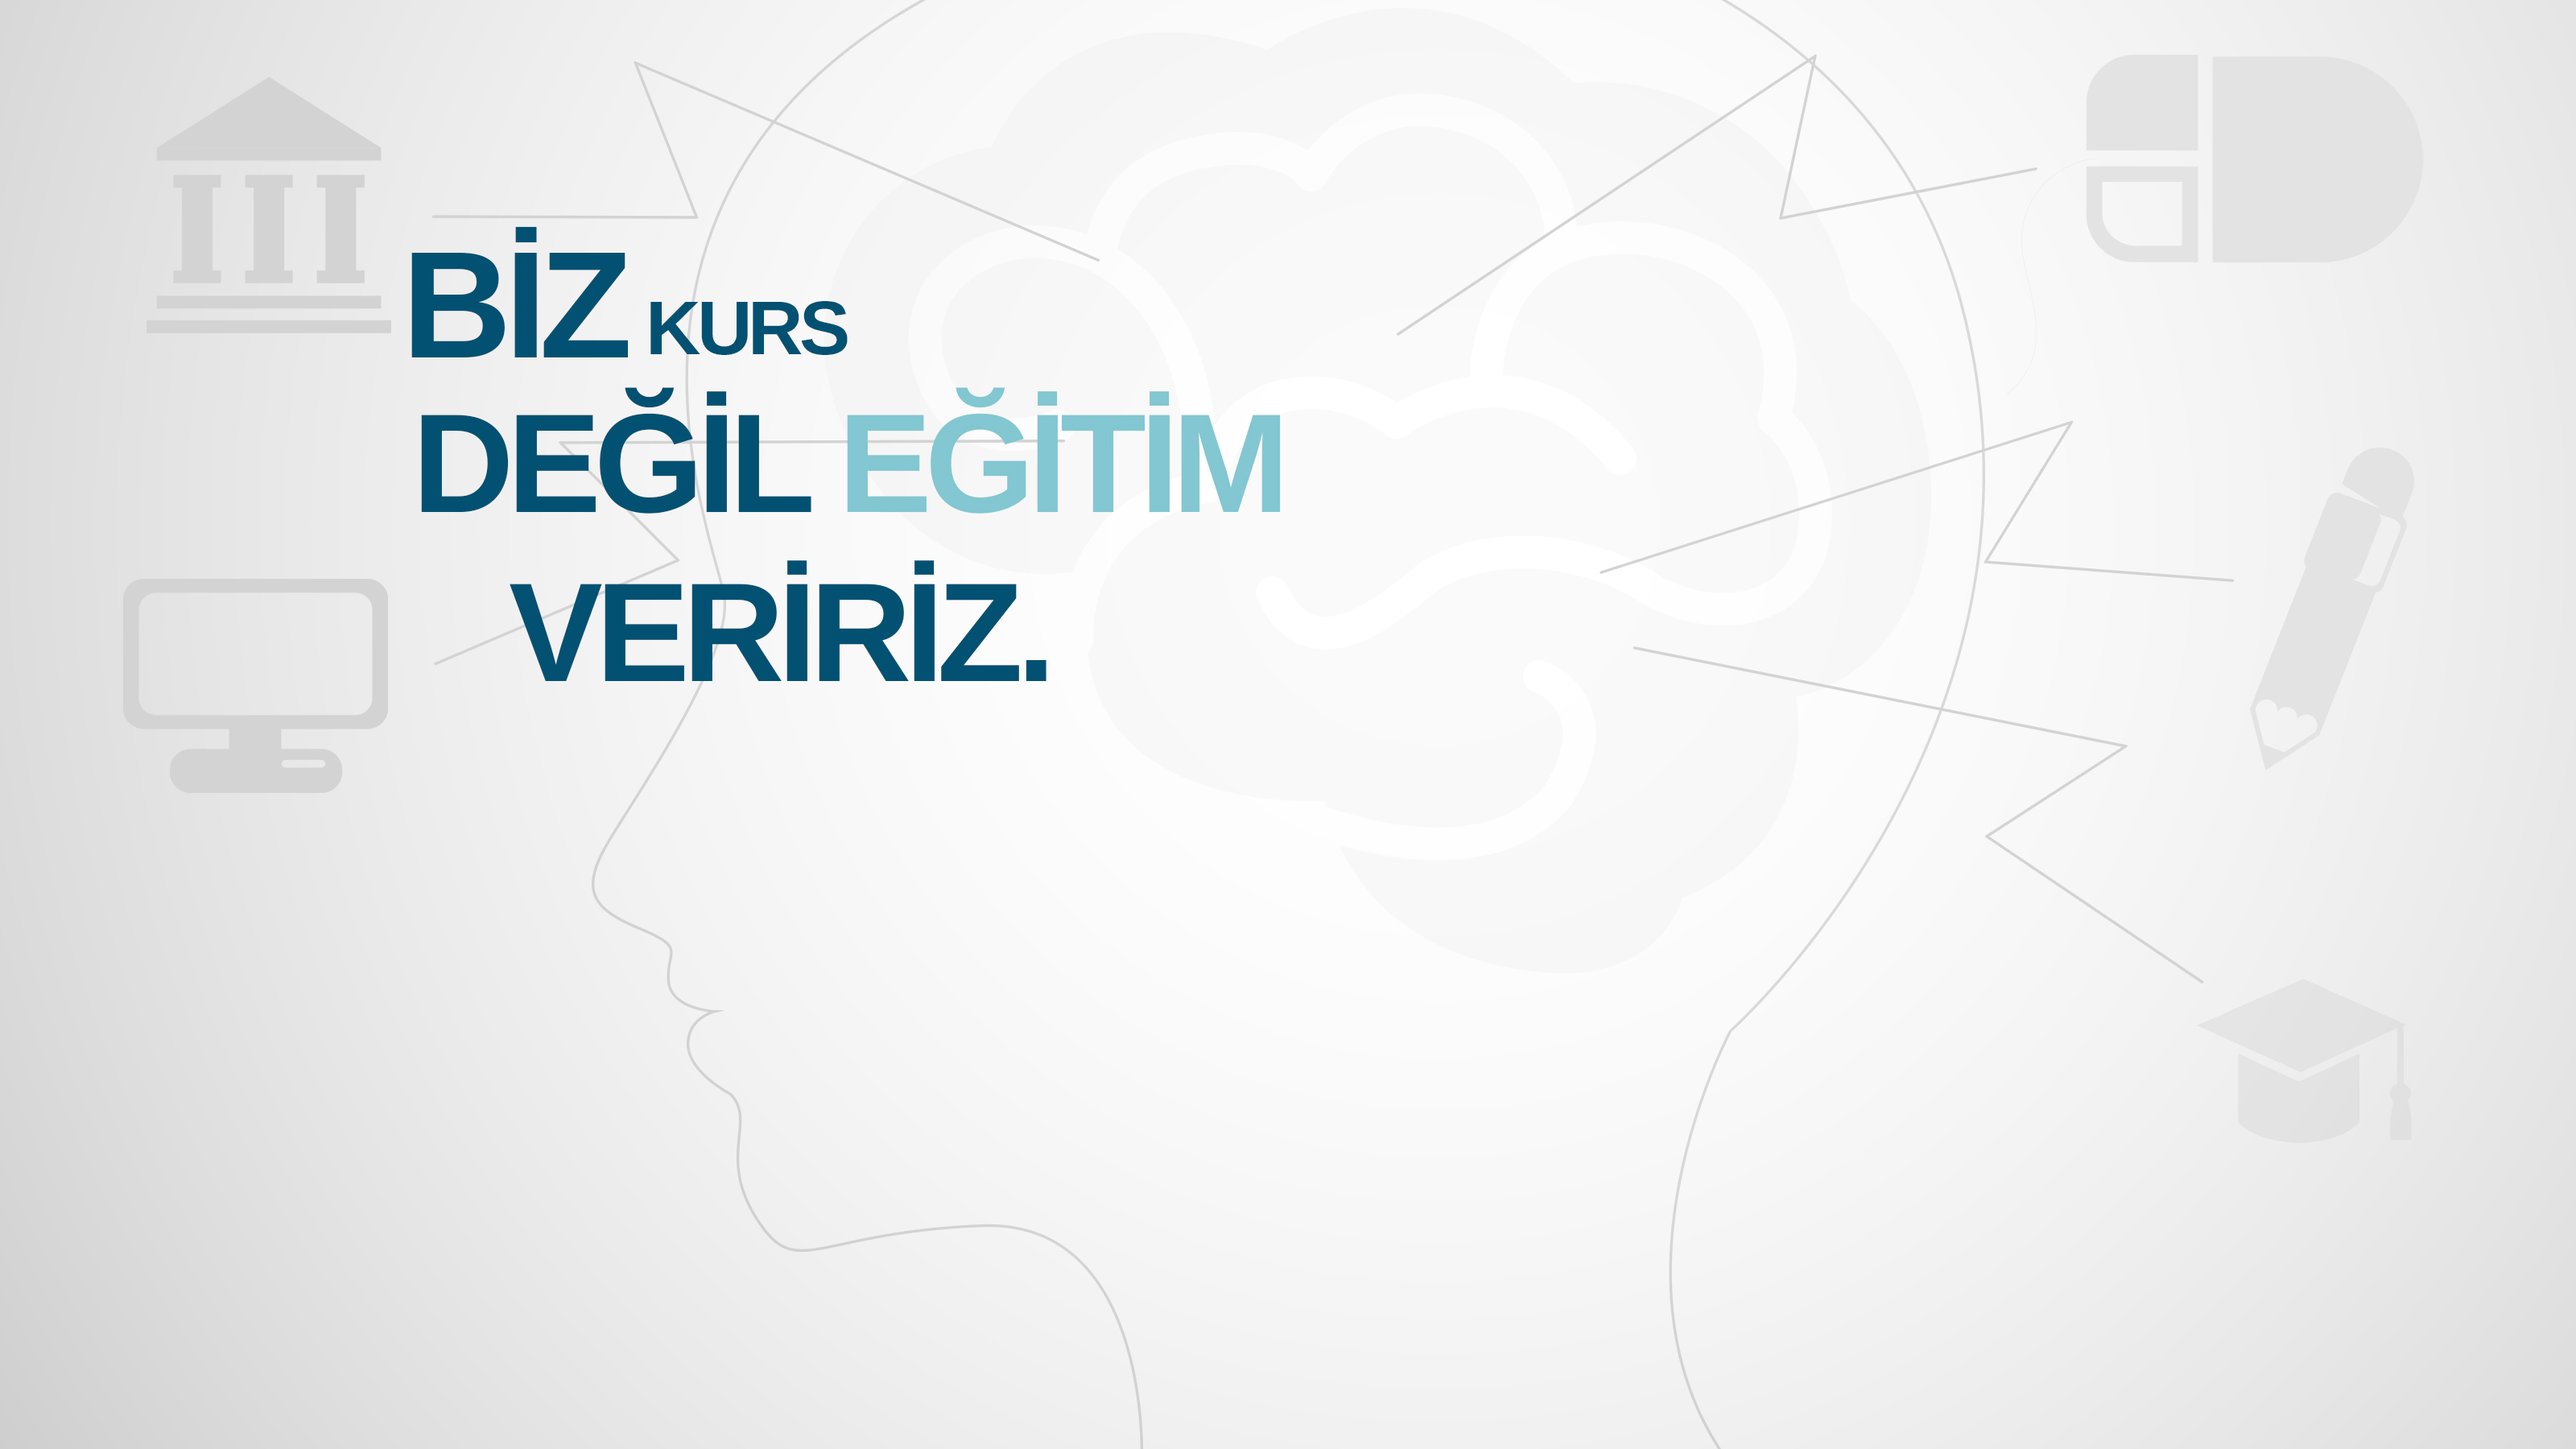
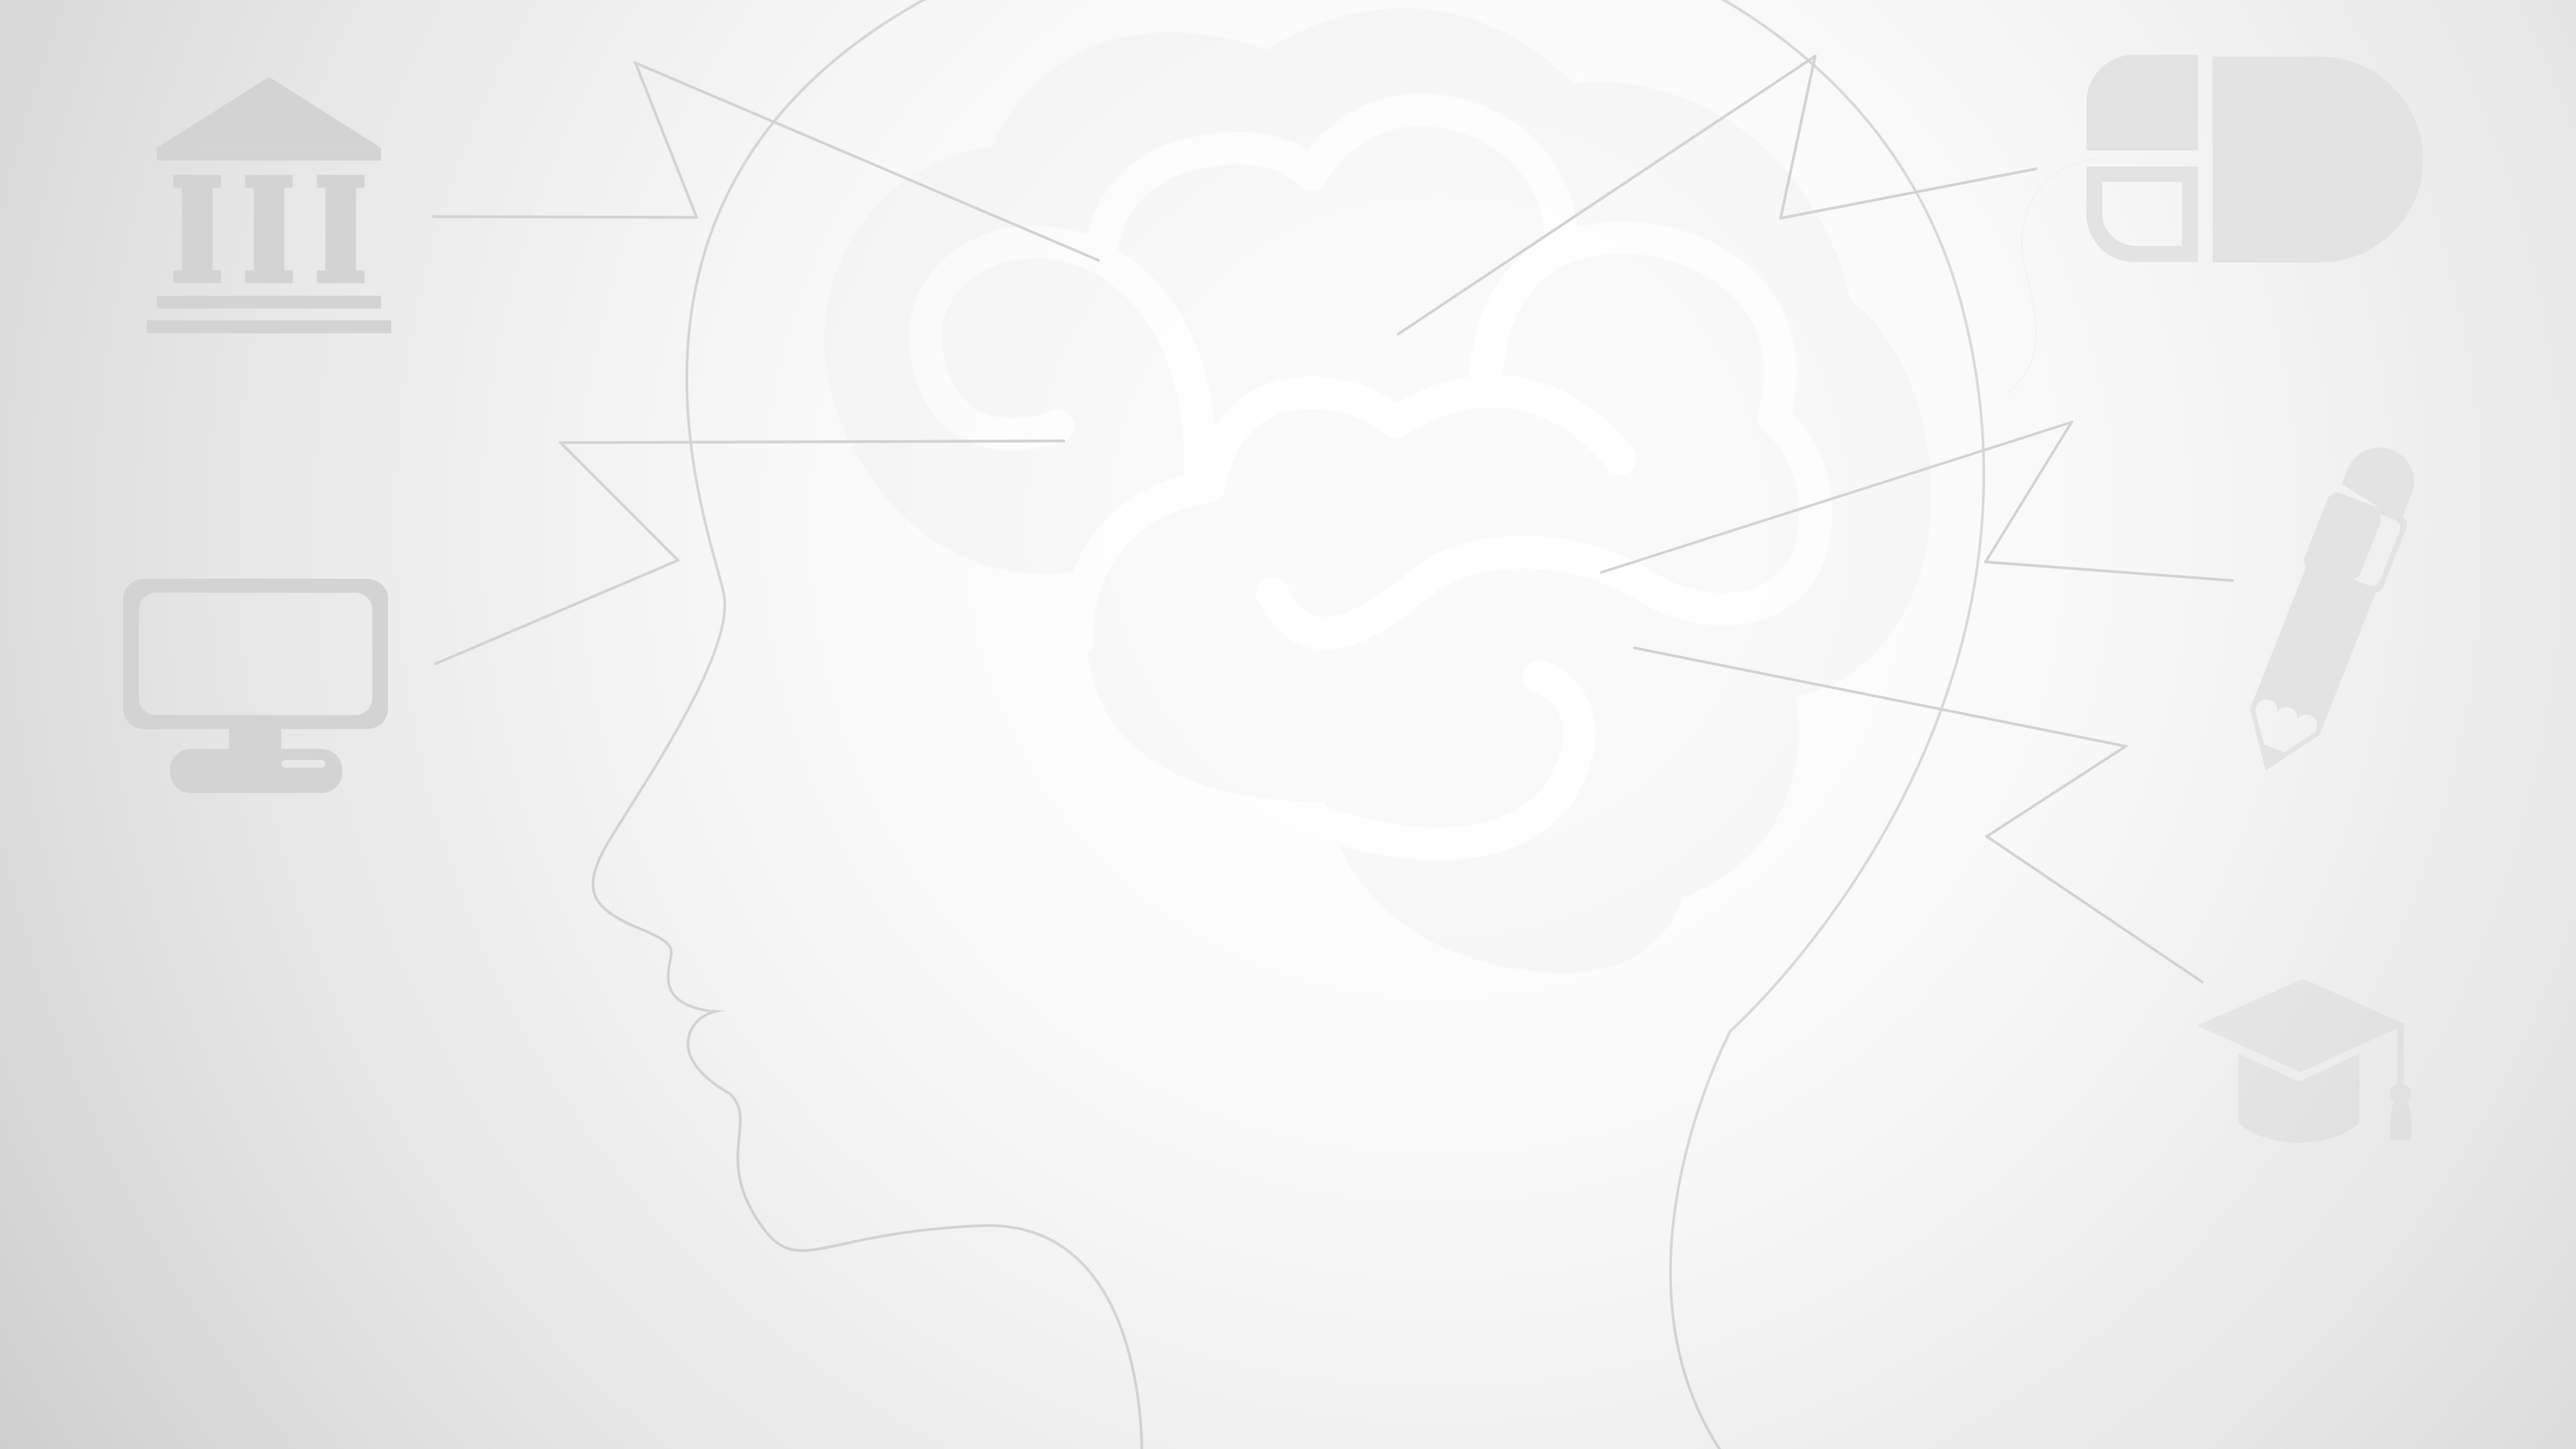
yayın öncesi

Changed region(s): [[0.1562, 0.1556, 0.5, 0.4667]]

diff --git a/client/app/less/app.less b/client/app/less/app.less
@@ -9,6 +9,7 @@ body {
     background-attachment: fixed;
     height: 100%;
     position: relative;
+    font-size: 16px;
     >.frame {}
 }
 
@@ -98,6 +99,71 @@ body {
    .btn-lg {
        .btn1;
   }
+}
+.ana-sayfa-swiper{
+    position: absolute;
+    
+    top: 50%;
+    margin-top: -200px;
+    right: 0;
+    
+    //background: url(../img/ok-swiper.png) no-repeat right -100px bottom;
+}
+.swiper-controls{
+    position: relative;
+    top: -60px;
+    z-index: 100;
+    overflow: hidden;
+    height: 30px;
+    .swiper-left{
+        display: block;
+        height: 30px;
+        width: 50px;
+        float: left;
+        background: url(img/swiper-kucuk-oklar.png) no-repeat 0 0 #ccc;
+    }
+    .swiper-right{
+
+    }
+}
+.ana-sayfa-egitim-basligi{
+    color:@ca-blue;
+    transition: .5s;
+    -webkit-transition: .5s;
+    font-size: 79px;
+    font-weight: 900;
+    top: 50%;
+    margin-top: -187px;
+    position: absolute;
+    left: 0;
+    padding: 5%;
+    padding-bottom: 8%;
+    padding-left: 3%;
+    background: url(../img/ana-sayfa-click-arrow.png) -3999px 114% no-repeat;
+    line-height: 70px;
+    small{
+        font-size: 50%;
+    }
+    .ana-sayfa-egitim-link{
+        transition: .5s;
+        -webkit-transition: .5s;
+        color:#82c7d1;
+    }
+    &:hover,
+    &:focus{
+        background: url(../img/ana-sayfa-click-arrow.png) 84% 77% no-repeat;
+        color:@ca-blue;
+        text-decoration: none;
+        .ana-sayfa-egitim-link{
+            color:white;
+            text-decoration: none;
+        }
+    }
+
+    &:hover,
+    &:focus{
+    }
+
 }
 .view-bottom {
     overflow: auto;

diff --git a/client/app/css/app.css b/client/app/css/app.css
@@ -58,6 +58,7 @@ body {
   background-attachment: fixed;
   height: 100%;
   position: relative;
+  font-size: 16px;
 }
 .frame {
   position: absolute;
@@ -160,6 +161,61 @@ body {
   background-color: #fff;
   color: #005bd8;
   border: 2px solid #005bd8;
+}
+.ana-sayfa-swiper {
+  position: absolute;
+  top: 50%;
+  margin-top: -200px;
+  right: 0;
+}
+.swiper-controls {
+  position: relative;
+  top: -60px;
+  z-index: 100;
+  overflow: hidden;
+  height: 30px;
+}
+.swiper-controls .swiper-left {
+  display: block;
+  height: 30px;
+  width: 50px;
+  float: left;
+  background: url(img/swiper-kucuk-oklar.png) no-repeat 0 0 #cccccc;
+}
+.ana-sayfa-egitim-basligi {
+  color: #025172;
+  transition: .5s;
+  -webkit-transition: .5s;
+  font-size: 79px;
+  font-weight: 900;
+  top: 50%;
+  margin-top: -187px;
+  position: absolute;
+  left: 0;
+  padding: 5%;
+  padding-bottom: 8%;
+  padding-left: 3%;
+  background: url(../img/ana-sayfa-click-arrow.png) -3999px 114% no-repeat;
+  line-height: 70px;
+}
+.ana-sayfa-egitim-basligi small {
+  font-size: 50%;
+}
+.ana-sayfa-egitim-basligi .ana-sayfa-egitim-link {
+  transition: .5s;
+  -webkit-transition: .5s;
+  color: #82c7d1;
+}
+.ana-sayfa-egitim-basligi:hover,
+.ana-sayfa-egitim-basligi:focus {
+  background: url(../img/ana-sayfa-click-arrow.png) 84% 77% no-repeat;
+  color: #025172;
+  text-decoration: none;
+}
+.ana-sayfa-egitim-basligi:hover .ana-sayfa-egitim-link,
+.ana-sayfa-egitim-basligi:focus .ana-sayfa-egitim-link {
+  color: white;
+  text-decoration: none;
 }
 .view-bottom {
   overflow: auto;

diff --git a/client/app/js/directives.js b/client/app/js/directives.js
@@ -116,6 +116,7 @@ angular.module('lupusshow.directives', [])
                         centeredSlides: true,
                         loop: true,
                         mode:'horizontal',
+                        autoplay: 5000,
                         onProgressChange: function (swiper) {
                             
                                 for (var i = 0; i < swiper.slides.length; i++) {

diff --git a/client/app/partials/home.html b/client/app/partials/home.html
@@ -1,3 +1,5 @@
+<a class="ana-sayfa-egitim-basligi" ui-sref="egitimler">
+	BİZ <small>KURS</small> <br> DEĞİL <span class="ana-sayfa-egitim-link">EĞİTİM</span> <br><small style="line-height: ">VERİYORUZ</small>
+</a>
 
-
-<div style="position:absolute;bottom:40px;right:100px;" swiper-b slides="homeSlides"></div>
+<div class="ana-sayfa-swiper"  swiper-b slides="homeSlides"></div>

diff --git a/client/app/partials/hakkimizda.html b/client/app/partials/hakkimizda.html
@@ -1,4 +1,4 @@
-<div class="container">
+<div class="container" style="padding-top: 20px;">
 	<div class="row">
 		<div class="col-md-6"><img src="img/REPUBLIC-office-by-atelierarchitects-Budapest-02.jpg" alt="" class="img-responsive"></div>
 		<div class="col-md-6">

diff --git a/client/app/template/swiper/swiper.html b/client/app/template/swiper/swiper.html
@@ -18,6 +18,9 @@
             </div>
         </div>
     </div>
+    <div class="swiper-controls">
+    <div class="swiper-left"></div>
+    <div class="swiper-right"></div></div>
 </div>
 <!-- <script>
 $(function(){

diff --git a/client/app/css/swiper.css b/client/app/css/swiper.css
@@ -89,8 +89,8 @@
 
 
 .swiper-container {
-    width: 500px;
-    height: 300px;
+    width: 700px;
+    height: 400px;
 
 }
 .swiper-wrapper {
